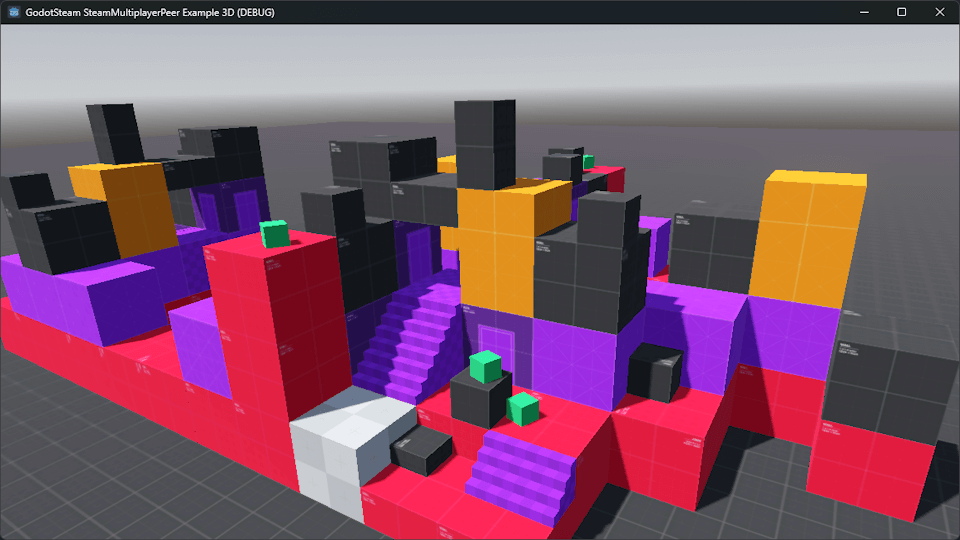
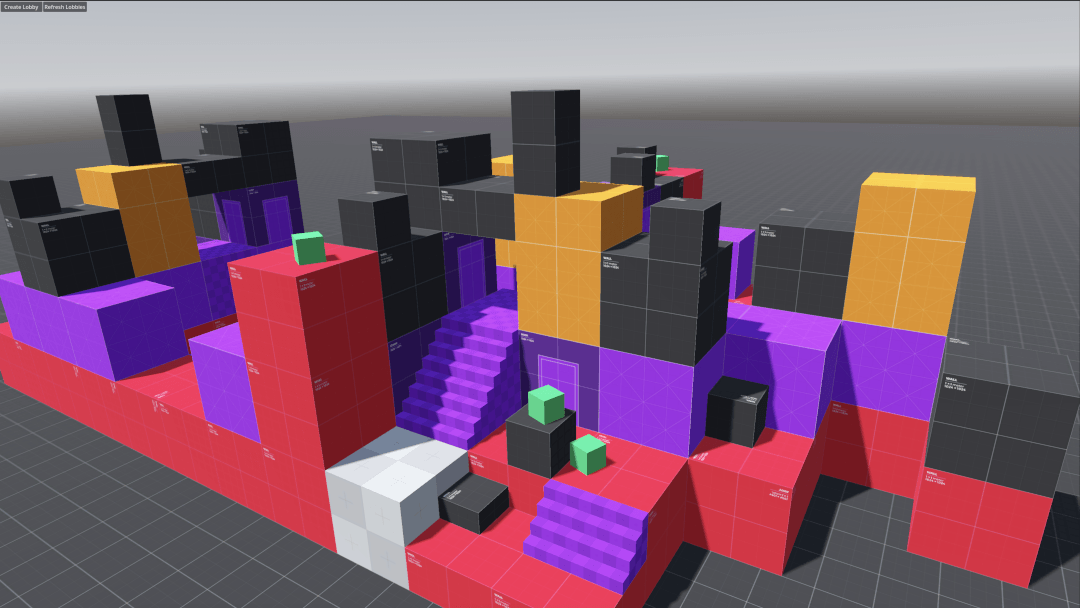
wip

diff --git a/main.css b/main.css
@@ -39,6 +39,7 @@ code {
     background-image: url("/GodotSteam-SteamMultiplayerPeer-Example-3D.png");
     background-position: 50%;
     background-repeat: no-repeat;
+    background-size: cover;
     padding: 124px 0 60px;
     text-align: center;
 }
@@ -58,7 +59,10 @@ code {
 
 .button-primary {
     color: #000;
+    display: flex;
     flex-grow: 1;
+    align-items: center;
+    justify-content: center;
     padding: 16px 32px;
     text-align: center;
 }
